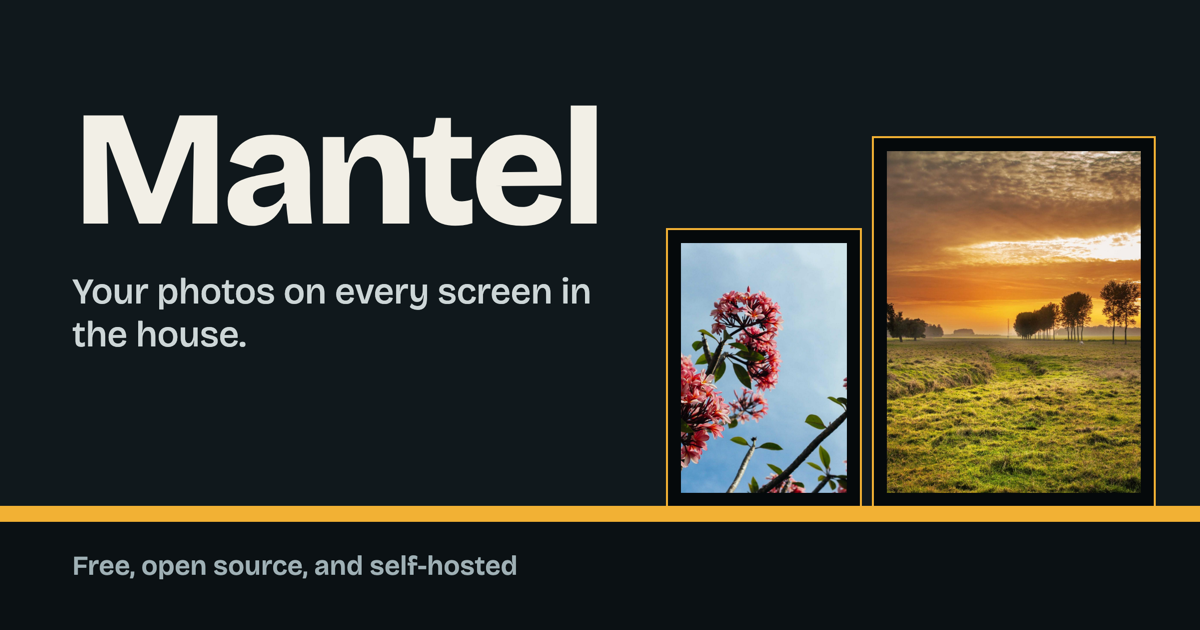
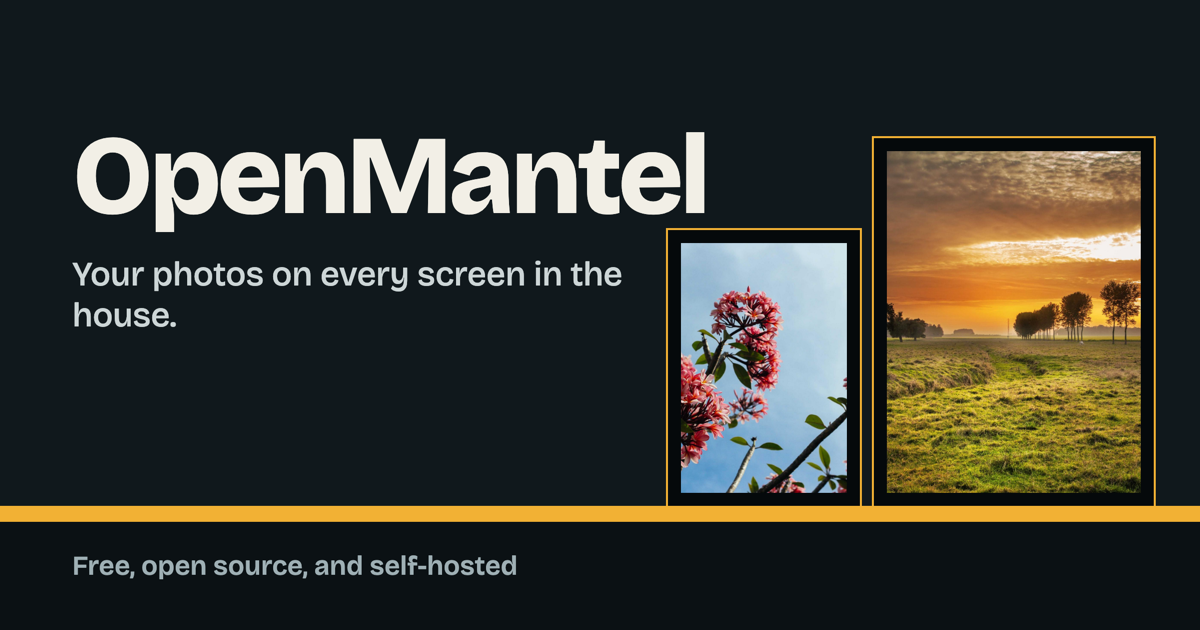
Rename to OpenMantel, and open photos in the slideshow from the grid
Use the OpenMantel name in the app, docs, site, and social image.
Clicking a thumbnail opens that photo in the full screen slideshow.

Changed region(s): [[0.0617, 0.1508, 0.5858, 0.3921], [0.0617, 0.4222, 0.5242, 0.573]]

diff --git a/site/index.html b/site/index.html
@@ -3,9 +3,9 @@
 <head>
 <meta charset="utf-8">
 <meta name="viewport" content="width=device-width, initial-scale=1">
-<title>Mantel: a free, self-hosted picture frame</title>
-<meta name="description" content="Mantel puts your photos on every screen in the house. Free, open source, and self-hosted, with no accounts and no subscription.">
-<meta property="og:title" content="Mantel">
+<title>OpenMantel: a free, self-hosted picture frame</title>
+<meta name="description" content="OpenMantel puts your photos on every screen in the house. Free, open source, and self-hosted, with no accounts and no subscription.">
+<meta property="og:title" content="OpenMantel">
 <meta property="og:description" content="Your photos on every screen in the house. Free, open source, and self-hosted.">
 <meta property="og:image" content="https://openmantel.com/og-image.png">
 <meta property="og:url" content="https://openmantel.com">
@@ -27,7 +27,7 @@ a:focus-visible { outline: 3px solid var(--gold); outline-offset: 3px; }
 .brand { font-size: 1.3rem; font-weight: 800; letter-spacing: -.02em; text-decoration: none; }
 
 .hero { display: grid; grid-template-columns: minmax(0, 1.15fr) minmax(0, 1fr); align-items: end; gap: 2rem; padding-top: clamp(1rem, 4vw, 3rem); }
-h1 { font-size: clamp(4.5rem, 14vw, 9.5rem); font-weight: 800; letter-spacing: -.045em; line-height: .92; }
+h1 { font-size: clamp(3.1rem, 9.2vw, 6.1rem); font-weight: 800; letter-spacing: -.045em; line-height: .92; }
 .lede { font-size: clamp(1.4rem, 3vw, 1.9rem); font-weight: 500; line-height: 1.2; letter-spacing: -.01em; color: var(--soft); margin-top: 1rem; max-width: 22ch; }
 .actions { display: flex; flex-wrap: wrap; gap: .75rem; margin-block: 1.75rem 2.5rem; }
 .button { display: inline-block; padding: .7rem 1.25rem; border-radius: .4rem; font-weight: 700; text-decoration: none; }
@@ -67,7 +67,7 @@ footer .wrap { display: flex; flex-wrap: wrap; gap: .5rem 1.5rem; justify-conten
 </head>
 <body>
 <header class="wrap top">
-  <a class="brand" href="/">Mantel</a>
+  <a class="brand" href="/">OpenMantel</a>
   <nav aria-label="Main">
     <a href="#install">Install</a>
     <a href="https://github.com/cschweda/openmantel">GitHub</a>
@@ -77,7 +77,7 @@ footer .wrap { display: flex; flex-wrap: wrap; gap: .5rem 1.5rem; justify-conten
 <main>
   <div class="wrap hero">
     <div>
-      <h1>Mantel</h1>
+      <h1>OpenMantel</h1>
       <p class="lede">Your photos on every screen in the house.</p>
       <div class="actions">
         <a class="button main" href="#install">Host your own</a>
@@ -94,7 +94,7 @@ footer .wrap { display: flex; flex-wrap: wrap; gap: .5rem 1.5rem; justify-conten
   <div class="below">
     <div class="wrap">
       <section>
-        <p class="prose">Mantel is a free, open source picture frame you host yourself. Put a small computer behind a monitor on the kitchen counter, plug it in, and your photos are on display. Store-bought digital frames do the same thing for a lot more money, and often with a subscription or someone else's cloud.</p>
+        <p class="prose">OpenMantel is a free, open source picture frame you host yourself. Put a small computer behind a monitor on the kitchen counter, plug it in, and your photos are on display. Store-bought digital frames do the same thing for a lot more money, and often with a subscription or someone else's cloud.</p>
       </section>
 
       <section aria-labelledby="features">
@@ -111,7 +111,7 @@ footer .wrap { display: flex; flex-wrap: wrap; gap: .5rem 1.5rem; justify-conten
 
       <section aria-labelledby="yours">
         <h2 id="yours">Yours, not a service</h2>
-        <p class="prose">Run it on a small VPS or add it to your homelab. Your photos stay on your server, with no accounts, no tracking, and no outside services. Mantel is MIT licensed and free, and it always will be.</p>
+        <p class="prose">Run it on a small VPS or add it to your homelab. Your photos stay on your server, with no accounts, no tracking, and no outside services. OpenMantel is MIT licensed and free, and it always will be.</p>
         <p class="prose">It's part of the <a href="https://metaincognita.com">metaincognita</a> suite of simulations and tools, and it stands entirely on its own.</p>
       </section>
 
@@ -141,7 +141,7 @@ docker compose up -d</code></pre>
 
 <footer>
   <div class="wrap">
-    <span>Mantel is free software under the MIT License.</span>
+    <span>OpenMantel is free software under the MIT License.</span>
     <a href="https://github.com/cschweda/openmantel">github.com/cschweda/openmantel</a>
   </div>
 </footer>

diff --git a/app/pages/admin/index.vue b/app/pages/admin/index.vue
@@ -39,6 +39,11 @@ const announcement = ref('')
 const confirming = ref<string | null>(null)
 const grid = useTemplateRef<HTMLElement>('grid')
 
+async function openInSlideshow(photo: Photo) {
+  await document.documentElement.requestFullscreen?.().catch(() => undefined)
+  await navigateTo({ path: '/', query: { photo: photo.id, ...(tagFilter.value ? { tag: tagFilter.value } : {}) } })
+}
+
 async function loadPhotos(before?: number) {
   loading.value = true
   const page = await $fetch<{ photos: Photo[], next: number | null }>('/api/photos', {
@@ -274,13 +279,21 @@ async function remove(photo: Photo) {
     <ul ref="grid" class="grid grid-cols-2 md:grid-cols-3 lg:grid-cols-4 gap-x-4 gap-y-7">
       <li v-for="(photo, index) in photos" :key="photo.id" class="flex flex-col gap-2">
         <div class="relative">
-          <img
-            :src="`/v/${photo.id}-640.webp`"
-            :alt="photo.filename"
-            loading="lazy"
-            class="aspect-square w-full object-contain bg-elevated rounded"
-            :class="{ 'opacity-40': photo.hidden }"
+          <button
+            type="button"
+            class="block w-full cursor-zoom-in rounded"
+            :aria-label="`See ${photo.filename} in the slideshow`"
+            title="See in the slideshow"
+            @click="openInSlideshow(photo)"
           >
+            <img
+              :src="`/v/${photo.id}-640.webp`"
+              :alt="photo.filename"
+              loading="lazy"
+              class="aspect-square w-full object-contain bg-elevated rounded"
+              :class="{ 'opacity-40': photo.hidden }"
+            >
+          </button>
           <button
             type="button"
             data-drag-handle

diff --git a/server/api/frame/playlist.get.ts b/server/api/frame/playlist.get.ts
@@ -44,7 +44,13 @@ export default defineEventHandler((event) => {
   const rows = db.prepare<string[], Entry>(
     `SELECT id, caption FROM photos WHERE hidden = 0 AND ${clause.sql} ORDER BY ${ORDER[sort]}`,
   ).all(...clause.params)
-  const entries = sort === 'random' ? shuffled(rows, device?.id ?? String(query.seed ?? 'admin')) : rows
+  const entries: Entry[] = sort === 'random' ? shuffled(rows, device?.id ?? String(query.seed ?? 'admin')) : rows
+
+  // Clicking a photo in the admin opens the slideshow on that photo, even if it's turned off.
+  if (!device && typeof query.first === 'string') {
+    const first = db.prepare<[string], Entry>(`SELECT id, caption FROM photos WHERE id = ?`).get(query.first)
+    if (first) entries.splice(0, entries.length, first, ...entries.filter(entry => entry.id !== first.id))
+  }
 
   const after = typeof query.after === 'string' ? entries.findIndex(entry => entry.id === query.after) : -1
   const photos = entries.slice(after + 1, after + 1 + limit)

diff --git a/tests/api.test.ts b/tests/api.test.ts
@@ -201,6 +201,16 @@ test('the remote reaches a connected frame, and only an admin can use it', async
   assert.equal(asDevice.status, 403)
 })
 
+test('an admin slideshow can open on a chosen photo, even one that is turned off', async () => {
+  const { photo } = await upload('#555555', 'chosen.jpg')
+  await adminJson(`/api/photos/${photo.id}`, 'PATCH', { hidden: true })
+
+  const { photos } = await (await adminFetch(`/api/frame/playlist?first=${photo.id}`)).json()
+  assert.equal(photos[0].id, photo.id)
+  const plain = await (await adminFetch('/api/frame/playlist')).json()
+  assert.ok(!plain.photos.some((item: { id: string }) => item.id === photo.id))
+})
+
 test('photo search matches file names and captions, and treats wildcards literally', async () => {
   const { photo } = await upload('#444444', 'searchable.jpg')
   await adminJson(`/api/photos/${photo.id}`, 'PATCH', { caption: 'Sunset at 100% zoom' })

diff --git a/app/pages/index.vue b/app/pages/index.vue
@@ -63,14 +63,16 @@ function inSleepWindow() {
 
 const route = useRoute()
 const previewSeed = String(Math.random())
+let firstPhoto = route.query.photo // Only the first load opens on the clicked photo.
 
 async function fetchPage(after?: string) {
-  const preview = config.value?.preview ? { tag: route.query.tag, seed: previewSeed } : {}
+  const preview = config.value?.preview ? { tag: route.query.tag, seed: previewSeed, first: firstPhoto } : {}
   return $fetch<{ photos: Entry[], next: string | null }>('/api/frame/playlist', { query: { after, ...preview } })
 }
 
 async function reloadPlaylist() {
   const page = await fetchPage()
+  firstPhoto = undefined
   entries = page.photos
   nextPage = page.next
   cursor = 0

diff --git a/nuxt.config.ts b/nuxt.config.ts
@@ -4,7 +4,7 @@ export default defineNuxtConfig({
   css: ['~/assets/css/main.css'],
   devtools: { enabled: false },
   devServer: { port: 3100, host: '127.0.0.1' },
-  app: { head: { title: 'Mantel', meta: [{ name: 'robots', content: 'noindex' }] } },
+  app: { head: { title: 'OpenMantel', meta: [{ name: 'robots', content: 'noindex' }] } },
   ui: { fonts: false },
   colorMode: { preference: 'dark', fallback: 'dark' },
   icon: { provider: 'server', fallbackToApi: false, serverBundle: { collections: ['lucide'] }, clientBundle: { scan: true } },

diff --git a/app/components/AdminShell.vue b/app/components/AdminShell.vue
@@ -51,7 +51,7 @@ async function logout() {
 <template>
   <div class="mx-auto w-full max-w-6xl px-4 py-3 sm:px-6 flex flex-col gap-4">
     <header class="flex flex-wrap items-center justify-between gap-x-6 gap-y-2">
-      <NuxtLink to="/admin" class="text-2xl font-extrabold tracking-tight">Mantel</NuxtLink>
+      <NuxtLink to="/admin" class="text-2xl font-extrabold tracking-tight">OpenMantel</NuxtLink>
       <nav aria-label="Admin" class="flex flex-wrap items-center gap-1">
         <NuxtLink
           v-for="link in LINKS"

diff --git a/app/pages/login.vue b/app/pages/login.vue
@@ -27,7 +27,7 @@ async function login() {
 <template>
   <main class="min-h-dvh flex items-center justify-center p-4">
     <form class="w-full max-w-xs flex flex-col gap-3" @submit.prevent="login">
-      <h1 class="text-5xl font-extrabold tracking-tight">Mantel</h1>
+      <h1 class="text-5xl font-extrabold tracking-tight">OpenMantel</h1>
       <UFormField label="Password" :error="error || undefined">
         <UInput
           v-model="password"

diff --git a/docs/self-hosting.md b/docs/self-hosting.md
@@ -1,6 +1,6 @@
-# Self-hosting Mantel
+# Self-hosting OpenMantel
 
-Mantel runs as one Node process with SQLite. Everything it stores lives in one Docker volume.
+OpenMantel runs as one Node process with SQLite. Everything it stores lives in one Docker volume.
 
 ## What you need
 
@@ -16,13 +16,13 @@ Login cookies are `Secure`, and the offline photo cache needs a secure connectio
 
 ## In a homelab
 
-You have a few ways to give Mantel a real HTTPS address at home:
+You have a few ways to give OpenMantel a real HTTPS address at home:
 
 - **Your existing reverse proxy.** Remove the `caddy` service from `compose.yaml`, publish the `app` service's port 3000 to your proxy, and point the proxy at it. Don't expose port 3000 to the network directly. The proxy must:
   - Set `X-Real-IP` to the client's address, overwriting anything the client sent. Rate limiting depends on this.
   - Turn off response buffering for `/api/frame/events`, or live frame updates are delayed.
   - Allow request bodies of at least 60 MB.
-- **A private network.** Tailscale can issue certificates for machines on your tailnet, and it keeps Mantel off the public internet. Frames must be on the tailnet too.
+- **A private network.** Tailscale can issue certificates for machines on your tailnet, and it keeps OpenMantel off the public internet. Frames must be on the tailnet too.
 - **A tunnel.** Cloudflare Tunnel gives a public HTTPS address with no open ports.
 - **A real domain with a DNS challenge.** Point a domain at the private address and use your proxy's DNS challenge support.
 

diff --git a/README.md b/README.md
@@ -1,10 +1,10 @@
-![Mantel: your photos on every screen in the house](docs/og-image.png)
+![OpenMantel: your photos on every screen in the house](docs/og-image.png)
 
-# Mantel
+# OpenMantel
 
-[Mantel](https://openmantel.com) is a free, open source picture frame you host yourself. Put a small computer behind a monitor on the kitchen counter, plug it in, and your photos are on display. Store-bought digital frames do the same thing for a lot more money, and often with a subscription or someone else's cloud.
+[OpenMantel](https://openmantel.com) is a free, open source picture frame you host yourself. Put a small computer behind a monitor on the kitchen counter, plug it in, and your photos are on display. Store-bought digital frames do the same thing for a lot more money, and often with a subscription or someone else's cloud.
 
-Mantel is part of the [metaincognita](https://metaincognita.com) suite of simulations and tools, and it stands entirely on its own. Run it on a $6 VPS or add it to your homelab. Your photos stay on your server, and nothing else is involved: no accounts, no tracking, and no outside services.
+OpenMantel is part of the [metaincognita](https://metaincognita.com) suite of simulations and tools, and it stands entirely on its own. Run it on a $6 VPS or add it to your homelab. Your photos stay on your server, and nothing else is involved: no accounts, no tracking, and no outside services.
 
 ## What it does
 

diff --git a/CHANGELOG.md b/CHANGELOG.md
@@ -6,10 +6,11 @@ All notable changes to this project are documented here. The format is based on 
 
 ### Added
 
+- Clicking a thumbnail opens that photo in the full screen slideshow.
 - Project site for openmantel.com, published with GitHub Pages.
 - Phone remote on each online frame: previous, pause, resume, and next.
 - Docker Compose self-hosting with automatic HTTPS, nightly backups, and a prebuilt image.
-- Self-hosting guide, and the Mantel name, README, social image, and openmantel.com.
+- Self-hosting guide, and the OpenMantel name, README, social image, and openmantel.com.
 - Tags tab for renaming and deleting tags, and search by file name or caption in the photo grid.
 - Frame setup scripts for Mac, Ubuntu, Windows, and Raspberry Pi.
 - `pnpm photos:rebuild` to recreate frame images from originals.
@@ -56,7 +57,7 @@ All notable changes to this project are documented here. The format is based on 
 
 ### Changed
 
-- The repository and Docker image are now named `openmantel`.
+- The project is now named OpenMantel, along with its repository and Docker image.
 - Scripts and docs no longer assume one particular server or domain.
 - Captions sit on a semi-transparent, edge-to-edge band, so they read on the lightest photos.
 - The admin opens on the photo library, with frames on their own tab.

diff --git a/docs/00-master-design.md b/docs/00-master-design.md
@@ -1,4 +1,4 @@
-# Mantel — Doc 00: Master Design
+# OpenMantel — Doc 00: Master Design
 
 **Project:** Self-hosted digital picture frame
 **Status:** Draft v0.1 — 2026-11-02
@@ -258,7 +258,7 @@ Upload also works from the phone (share sheet → browser → upload form with t
 
 **Start slideshow** at the top of the admin plays in that browser with no pairing, using the same page as a frame. The admin session may read `GET /api/frame/config` and `GET /api/frame/playlist`, and nothing else under `/api/frame/`.
 
-The **Show photos tagged** dropdown drives both this slideshow and the photo grid. With no tag selected, every visible photo plays in a new random order on each start, tagged or not. With a tag selected, only photos with that tag play, in the arranged order.
+The **Show photos tagged** dropdown drives both this slideshow and the photo grid. With no tag selected, every visible photo plays in a new random order on each start, tagged or not. With a tag selected, only photos with that tag play, in the arranged order. Clicking a thumbnail opens the slideshow on that photo.
 
 The left and right arrow keys change photos, on frames too. Esc leaves the slideshow and returns to the admin; in full screen the browser keeps Esc for itself, so leaving full screen does the same.
 
